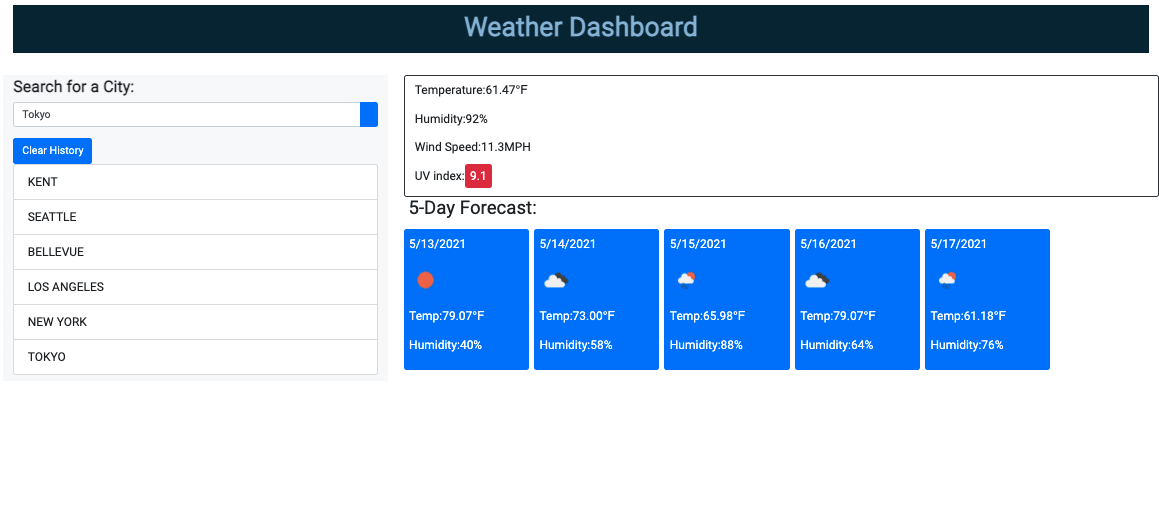
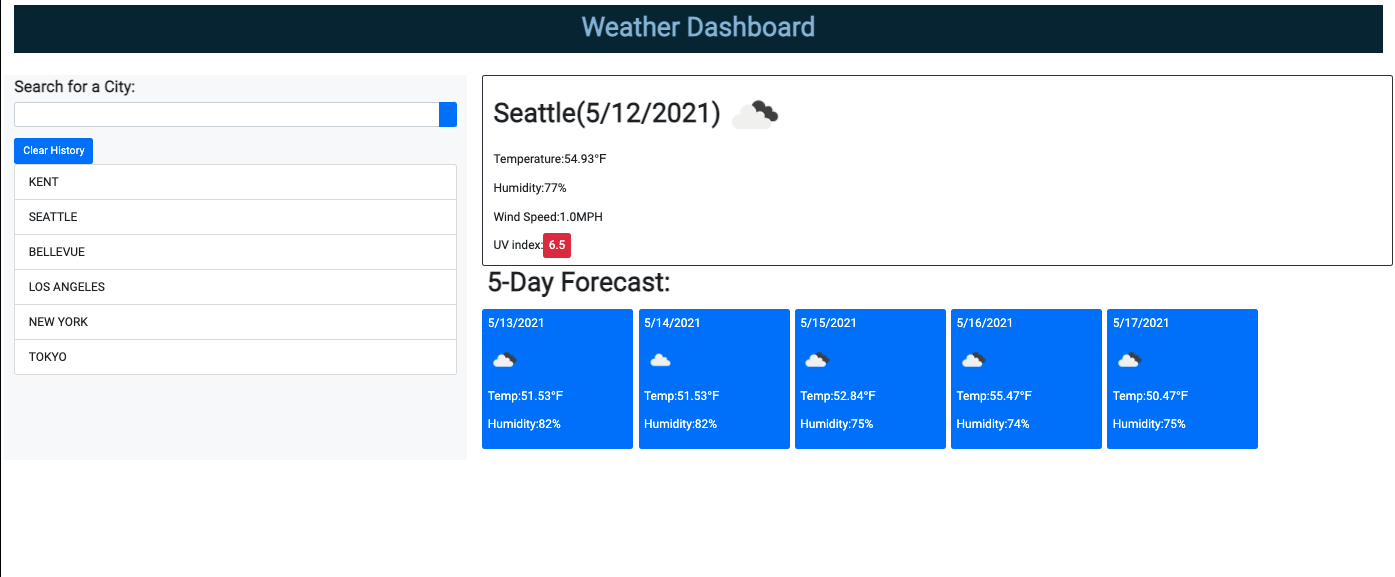
Fixed the current city name being displayed for current weather card. Added new screenshot to README.

Changed region(s): [[0.0, 0.0304, 1.0, 0.7909], [0.0, 0.0, 0.0311, 0.0304]]

diff --git a/index.html b/index.html
@@ -13,7 +13,7 @@
     <title>Weather Dashboard</title>
   </head>
   <body>
-    
+
       <div class="jumbotron jumbotron-fluid mt-2 text-center p-2" style="background-color: #07283a; color: #91badb;">
         <h1><strong>Weather Dashboard</strong></h1>
         <div class="container"></div>
@@ -30,7 +30,7 @@
           <div class="input-group mb-3">
               <input type="text" class="form-control"id="search-city" aria-label="City Search" aria-describedby="search-button">
               <div class="input-group-append">
-                  <button class="btn bg-primary text-light" id="search-button"><i class="bi bi-search"></i></button>
+                  <button class="btn bg-primary text-light" id="search-button"><i class="fa fa-search"></i></button>
               </div>
           </div>
           <!--Section for searched city history-->

diff --git a/assets/JS/script.js b/assets/JS/script.js
@@ -1,12 +1,12 @@
-// constant for my API key
+// Constant for my API key
 const apiKey = "e5f2367964f72502a698afe100a91b44";
-// variable to store the searched city
+// Variable to store the searched city
 let city = "";
-// variable declarations
+// Global variable declarations
 let searchCity = $("#search-city");
-let searchButton = $("search-button");
-let clearButton = $("clear-history");
-let currentCity = $("current-city");
+let searchButton = $("#search-button");
+let clearButton = $("#clear-history");
+let currentCity = $("#current-city");
 let currentTemp = $("#temperature");
 let currentHumidity = $("#humidity");
 let currentWindSpeed = $("#wind-speed");

diff --git a/assets/CSS/style.css b/assets/CSS/style.css
@@ -14,6 +14,11 @@ body {
     align-items: center;
 }
 
+h3 {
+    font-size: 40px;
+    font-weight: bolder;
+}
+
 .forecast {
     font-size: 1em;
 }
